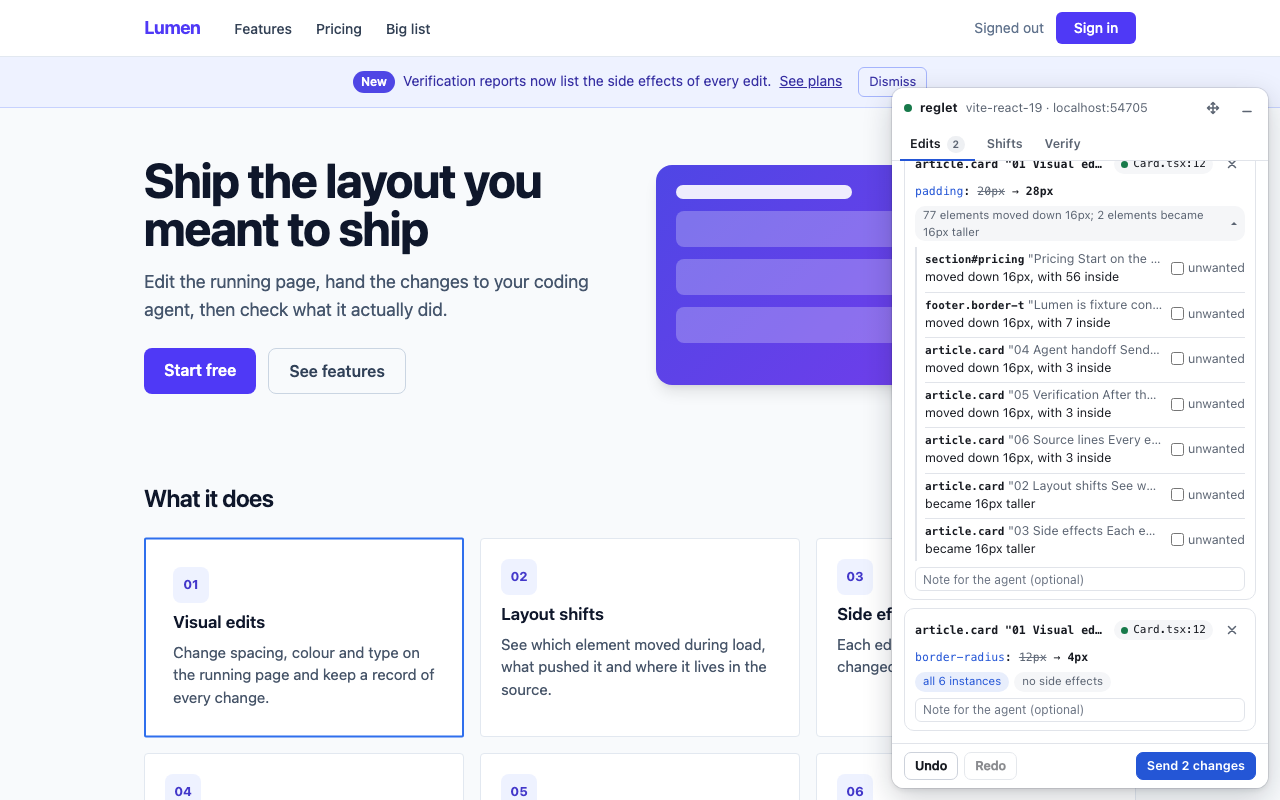
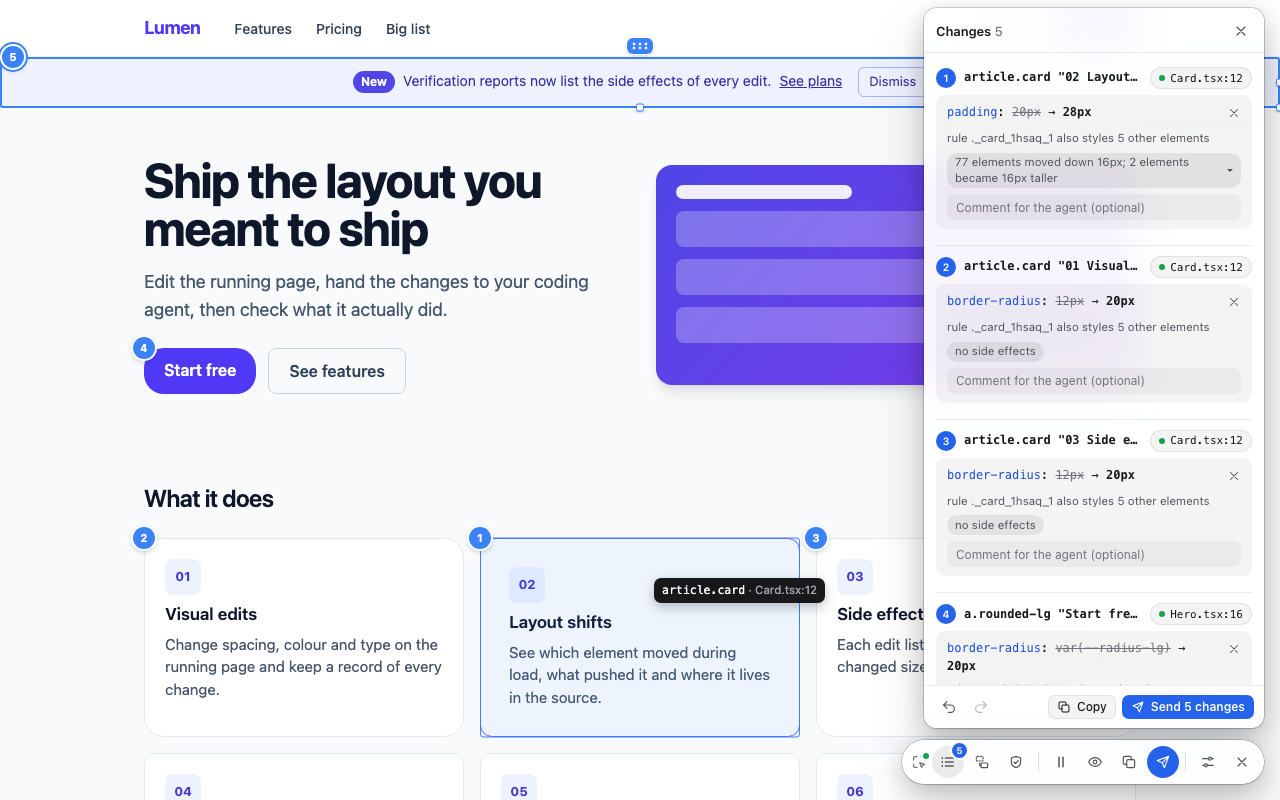
Dock: breadcrumbs keep the nearest ancestors in view; README screenshots of the new dock

diff --git a/packages/overlay/src/ui/css.ts b/packages/overlay/src/ui/css.ts
@@ -251,6 +251,8 @@ ul, ol { list-style: none; }
 
 .crumbs { display: flex; align-items: center; flex-wrap: nowrap; gap: 0; min-width: 0; overflow: hidden; color: var(--faint); font-size: 11px; }
 .crumbs > * { flex: none; }
+/* The nearest ancestors stay in view; the far end is cut, faded. */
+.crumbs { justify-content: flex-end; -webkit-mask-image: linear-gradient(to right, transparent, #000 20px); mask-image: linear-gradient(to right, transparent, #000 20px); }
 .crumbs .chev { opacity: 0.6; }
 .crumb { padding: 1px 4px; border-radius: 5px; color: var(--faint); font: 450 11px/1.4 var(--mono); max-width: 120px; overflow: hidden; text-overflow: ellipsis; white-space: nowrap; }
 .crumb:hover { background: var(--raised-2); color: var(--text); }

diff --git a/README.md b/README.md
@@ -10,7 +10,7 @@ primp is a proxy you run in front of your dev server. It adds a dock to your app
 
 primp never writes to your source files. Nothing is installed in your project.
 
-![The Edits tab: two recorded changes, with the elements that moved because of the first one](docs/img/edits.png)
+![The dock open on a page: numbered pins on the changed elements, the Changes panel with what each change moved, and the toolbar](docs/img/edits.png)
 
 > Status: pre-release. Not on npm yet. Built and tested on macOS with Chromium; see [What is tested](#what-is-tested).
 
@@ -70,7 +70,7 @@ Several tools let you edit a live page and hand the changes to an agent. primp i
 
 **Layout shifts.** primp records the page load from its first script, attributes each shift to the element that caused it (an image without reserved space, a web font swapping in, content inserted above other content), and resolves that element to a line in your source.
 
-![The Shifts tab: one shift, its culprit outlined on the page, and the evidence](docs/img/shifts.png)
+![The Shifts panel: one shift, its culprit outlined on the page, and the evidence](docs/img/shifts.png)
 
 **Verification that does not flatter.** A change only passes when the page was measured and the value is there.
 
